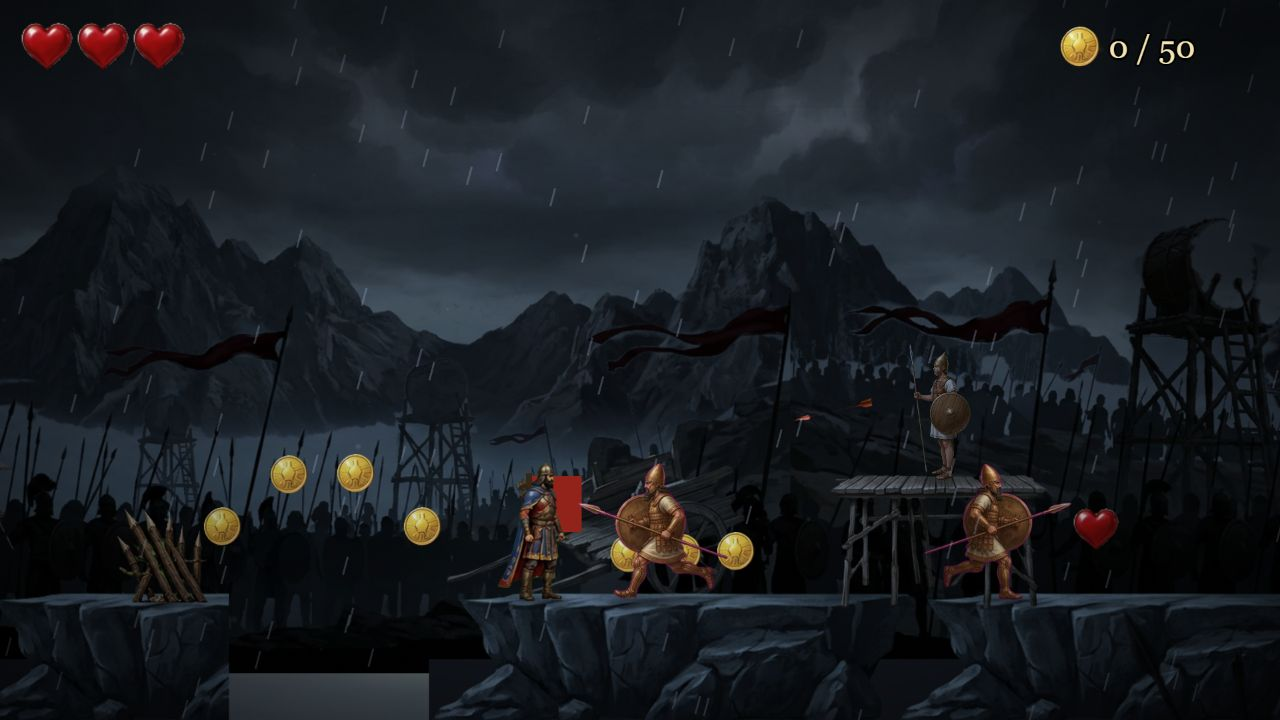
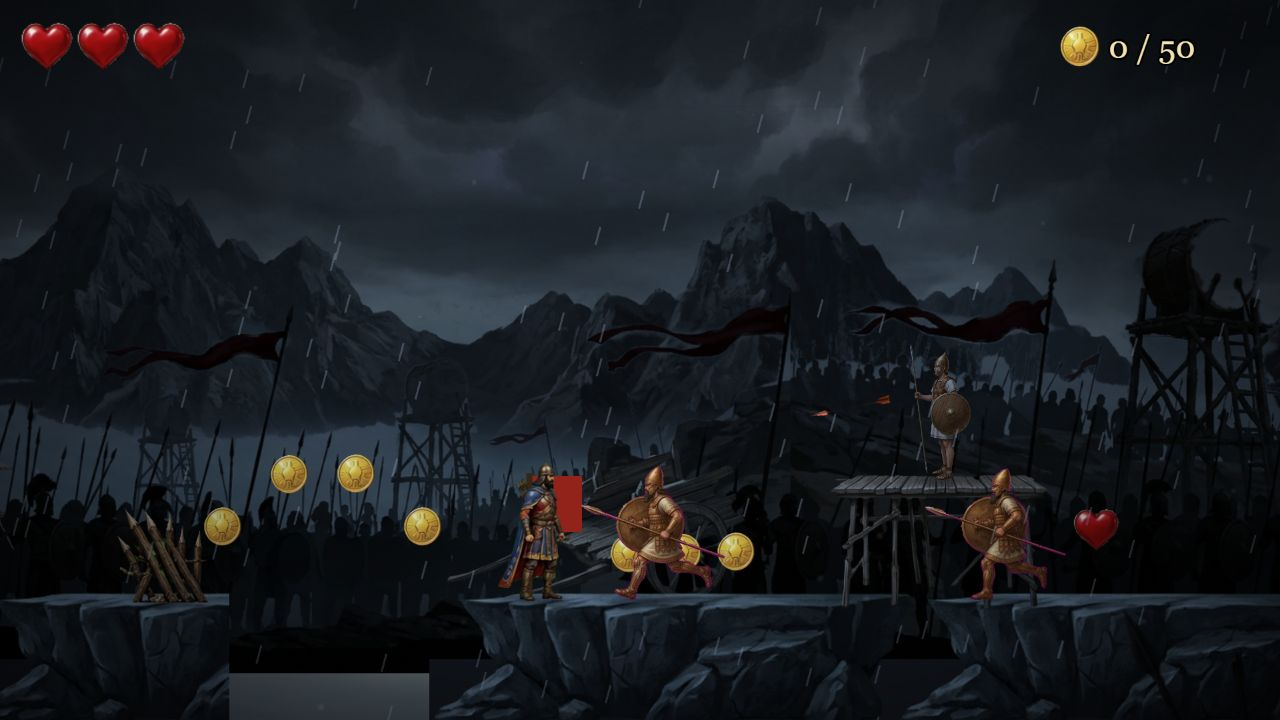
Бел из листа анимации: шаг, замах, удар; вырезание любого ровного фона и поиск фигур без сетки

Changed region(s): [[0.7188, 0.6417, 0.875, 0.8556], [0.4688, 0.6417, 0.5938, 0.7944], [0.625, 0.55, 0.6875, 0.5806]]

diff --git a/src/sprites.js b/src/sprites.js
@@ -1,102 +1,201 @@
-// Листы анимаций, нарисованные на сплошном пурпурном фоне (#FF00FF).
-// При запуске игры код сам вырезает фон, находит фигуру в каждой ячейке и выравнивает кадры
-// по линии ног и по центру тела, чтобы персонаж не «прыгал» между кадрами.
+// Листы анимаций, нарисованные на ровном одноцветном фоне (пурпурном, сиреневом — любом, не похожем на персонажа).
+// При запуске игры код сам:
+//   1) определяет цвет фона по углам картинки и делает его прозрачным;
+//   2) находит на листе отдельные фигуры (сетка не нужна — фигуры могут стоять неровно);
+//   3) выравнивает кадры по линии ног и по центру фигуры, чтобы персонаж не «прыгал» между кадрами.
 //
-// file — путь внутри public/assets; cols × rows — сетка ячеек на листе; frames — сколько кадров брать;
-// fps — скорость анимации; faces — куда смотрит персонаж на листе (1 — вправо, -1 — влево).
+// file   — путь внутри public/assets
+// rows   — сколько рядов фигур на листе (кадры нумеруются слева направо, ряд за рядом, с нуля)
+// frames — сколько фигур на листе
+// faces  — куда смотрит персонаж на листе (1 — вправо, -1 — влево)
+// tol    — насколько цвет может отличаться от фона, чтобы считаться фоном (больше — вырезает смелее)
+// anims  — анимации: имя → { frames: номера кадров, fps: скорость }
 export const SHEETS = {
-  'spearman-walk': { file: 'enemies/spearman-walk.webp', cols: 4, rows: 2, frames: 8, fps: 10, faces: 1 },
+  'spearman-walk': {
+    file: 'enemies/spearman-walk.webp', rows: 2, frames: 8, faces: 1, tol: 120,
+    anims: { 'spearman-walk': { frames: [0, 1, 2, 3, 4, 5, 6, 7], fps: 10 } },
+  },
+  'bel-sheet': {
+    file: 'enemies/bel-sheet.webp', rows: 2, frames: 6, faces: 1, tol: 34,
+    anims: { 'bel-walk': { frames: [0, 1, 4, 5], fps: 5 } },
+  },
 };
 
-// сюда записываются размеры готовых кадров: figH — рост фигуры, W/H — размер кадра, baseline — линия ног
+// сюда записываются размеры готовых кадров: figH — рост фигуры, W/H — размер кадра, baseline — линия ног, cx — центр фигуры
 export const SHEET_INFO = {};
 
 export function loadSheets(scene) {
   for (const [key, s] of Object.entries(SHEETS)) scene.load.image('raw-' + key, 'assets/' + s.file);
 }
 
-// насколько пиксель «пурпурный»: 0 — нет, 1 — чистый фон
-function magenta(r, g, b) {
-  const m = (Math.min(r, b) - g - 40) / 110;
-  return m < 0 ? 0 : m > 1 ? 1 : m;
-}
-
 export function buildSheets(scene) {
   for (const [key, s] of Object.entries(SHEETS)) {
     if (!scene.textures.exists('raw-' + key)) continue;
-    const img = scene.textures.get('raw-' + key).getSourceImage();
-    const inset = 5; // отступ от края ячейки, чтобы не захватить линии сетки
-    const cw = Math.floor(img.width / s.cols) - inset * 2;
-    const ch = Math.floor(img.height / s.rows) - inset * 2;
-    const src = document.createElement('canvas');
-    src.width = img.width;
-    src.height = img.height;
-    const sg = src.getContext('2d', { willReadFrequently: true });
-    sg.drawImage(img, 0, 0);
-
-    const cells = [];
-    for (let f = 0; f < s.frames; f++) {
-      const cx0 = (f % s.cols) * Math.floor(img.width / s.cols) + inset;
-      const cy0 = Math.floor(f / s.cols) * Math.floor(img.height / s.rows) + inset;
-      const data = sg.getImageData(cx0, cy0, cw, ch);
-      const d = data.data;
-      let x0 = cw, x1 = 0, y0 = ch, y1 = 0, sum = 0, sumX = 0;
-      for (let y = 0; y < ch; y++) {
-        for (let x = 0; x < cw; x++) {
-          const i = (y * cw + x) * 4;
-          const k = magenta(d[i], d[i + 1], d[i + 2]);
-          // тёмные линии сетки у самого края ячейки тоже убираем
-          const edgeLine = (x < 4 || x > cw - 5 || y < 4 || y > ch - 5) && d[i] + d[i + 1] + d[i + 2] < 200;
-          const a = edgeLine ? 0 : 1 - k;
-          d[i + 3] = Math.round(a * 255);
-          if (k > 0 && a > 0) {
-            // убираем пурпурный отсвет по краям фигуры
-            const spill = Math.min(d[i], d[i + 2]) - d[i + 1];
-            if (spill > 0) {
-              d[i] -= spill * k;
-              d[i + 2] -= spill * k;
-            }
-          }
-          if (a > 0.5) {
-            if (x < x0) x0 = x;
-            if (x > x1) x1 = x;
-            if (y < y0) y0 = y;
-            if (y > y1) y1 = y;
-            // центр тела считаем по нижней половине кадра не нужно — берём все непрозрачные пиксели
-            sum++;
-            sumX += x;
-          }
-        }
-      }
-      const c = document.createElement('canvas');
-      c.width = cw;
-      c.height = ch;
-      c.getContext('2d').putImageData(data, 0, 0);
-      cells.push({ c, x0, x1, y0, y1, cx: sum ? sumX / sum : cw / 2 });
-    }
+    const frames = cutFrames(scene.textures.get('raw-' + key).getSourceImage(), s);
+    scene.textures.remove('raw-' + key);
+    if (!frames.length) continue;
 
     // общий размер кадра: чтобы влезла самая широкая и самая высокая фигура
     let left = 0, right = 0, figH = 0;
-    for (const c of cells) {
-      left = Math.max(left, c.cx - c.x0);
-      right = Math.max(right, c.x1 - c.cx);
-      figH = Math.max(figH, c.y1 - c.y0 + 1);
+    for (const f of frames) {
+      left = Math.max(left, f.anchor);
+      right = Math.max(right, f.w - f.anchor);
+      figH = Math.max(figH, f.h);
     }
     const pad = 4;
     const W = Math.ceil(left + right) + pad * 2;
     const H = figH + pad * 2;
     const baseline = H - pad;
     const out = document.createElement('canvas');
-    out.width = W * cells.length;
+    out.width = W * frames.length;
     out.height = H;
     const og = out.getContext('2d');
-    cells.forEach((c, f) => {
-      og.drawImage(c.c, Math.round(f * W + pad + left - c.cx), baseline - c.y1 - 1);
-    });
+    frames.forEach((f, i) => og.drawImage(f.canvas, Math.round(i * W + pad + left - f.anchor), baseline - f.h));
 
     scene.textures.addSpriteSheet(key, out, { frameWidth: W, frameHeight: H });
-    scene.anims.create({ key, frames: scene.anims.generateFrameNumbers(key, { start: 0, end: cells.length - 1 }), frameRate: s.fps, repeat: -1 });
-    SHEET_INFO[key] = { figH, W, H, baseline, cx: pad + left, faces: s.faces };
-    scene.textures.remove('raw-' + key);
+    for (const [name, a] of Object.entries(s.anims || {})) {
+      scene.anims.create({ key: name, frames: scene.anims.generateFrameNumbers(key, { frames: a.frames.filter((n) => n < frames.length) }), frameRate: a.fps, repeat: -1 });
+    }
+    SHEET_INFO[key] = { figH, W, H, baseline, cx: pad + left, faces: s.faces, count: frames.length };
   }
+}
+
+// Вырезает фон и возвращает отдельные фигуры: [{ canvas, w, h, anchor }]
+function cutFrames(img, s) {
+  const w = img.width;
+  const h = img.height;
+  const n = w * h;
+  const src = document.createElement('canvas');
+  src.width = w;
+  src.height = h;
+  const sg = src.getContext('2d', { willReadFrequently: true });
+  sg.drawImage(img, 0, 0);
+  const d = sg.getImageData(0, 0, w, h).data;
+
+  // цвет фона — среднее по четырём углам
+  let br = 0, bg = 0, bb = 0, cnt = 0;
+  for (const [ox, oy] of [[2, 2], [w - 10, 2], [2, h - 10], [w - 10, h - 10]]) {
+    for (let y = oy; y < oy + 8; y++) {
+      for (let x = ox; x < ox + 8; x++) {
+        const i = (y * w + x) * 4;
+        br += d[i]; bg += d[i + 1]; bb += d[i + 2]; cnt++;
+      }
+    }
+  }
+  br /= cnt; bg /= cnt; bb /= cnt;
+
+  // расстояние каждого пикселя до цвета фона
+  const T = s.tol ?? 40;
+  const T2 = T * 1.45;
+  const dist = new Float32Array(n);
+  const isBg = new Uint8Array(n);
+  for (let p = 0; p < n; p++) {
+    const i = p * 4;
+    const dr = d[i] - br, dg = d[i + 1] - bg, db = d[i + 2] - bb;
+    const v = Math.sqrt(dr * dr + dg * dg + db * db);
+    dist[p] = v;
+    if (v < T) isBg[p] = 1;
+  }
+  // от краёв картинки фон «заливается» смелее: так убираются полутона на границе фигур,
+  // но похожие на фон места внутри фигуры (например, блик на мече) остаются
+  const stack = [];
+  for (let x = 0; x < w; x++) stack.push(x, (h - 1) * w + x);
+  for (let y = 0; y < h; y++) stack.push(y * w, y * w + w - 1);
+  const seen = new Uint8Array(n);
+  while (stack.length) {
+    const p = stack.pop();
+    if (seen[p] || dist[p] >= T2) continue;
+    seen[p] = 1;
+    isBg[p] = 1;
+    const x = p % w;
+    if (x > 0) stack.push(p - 1);
+    if (x < w - 1) stack.push(p + 1);
+    if (p >= w) stack.push(p - w);
+    if (p < n - w) stack.push(p + w);
+  }
+
+  // ищем связные «пятна» не-фона — это фигуры и мелкие детали
+  const label = new Int32Array(n);
+  const comps = [null];
+  for (let p0 = 0; p0 < n; p0++) {
+    if (isBg[p0] || label[p0]) continue;
+    const id = comps.length;
+    const c = { id, area: 0, x0: w, x1: 0, y0: h, y1: 0 };
+    stack.push(p0);
+    label[p0] = id;
+    while (stack.length) {
+      const p = stack.pop();
+      const x = p % w;
+      const y = (p - x) / w;
+      c.area++;
+      if (x < c.x0) c.x0 = x;
+      if (x > c.x1) c.x1 = x;
+      if (y < c.y0) c.y0 = y;
+      if (y > c.y1) c.y1 = y;
+      if (x > 0 && !isBg[p - 1] && !label[p - 1]) { label[p - 1] = id; stack.push(p - 1); }
+      if (x < w - 1 && !isBg[p + 1] && !label[p + 1]) { label[p + 1] = id; stack.push(p + 1); }
+      if (y > 0 && !isBg[p - w] && !label[p - w]) { label[p - w] = id; stack.push(p - w); }
+      if (y < h - 1 && !isBg[p + w] && !label[p + w]) { label[p + w] = id; stack.push(p + w); }
+    }
+    comps.push(c);
+  }
+
+  // линии сетки (тонкие и через весь лист) и мусор отбрасываем; крупные пятна — фигуры
+  const real = comps.filter((c) => c && c.area >= 12 && c.x1 - c.x0 < w * 0.6 && c.y1 - c.y0 < h * 0.75);
+  const maxArea = real.reduce((m, c) => Math.max(m, c.area), 0);
+  const rowOf = (c) => Math.min(s.rows - 1, Math.floor(((c.y0 + c.y1) / 2 / h) * s.rows));
+  const figs = real.filter((c) => c.area >= maxArea * 0.25)
+    .sort((a, b) => rowOf(a) - rowOf(b) || a.x0 + a.x1 - b.x0 - b.x1)
+    .slice(0, s.frames);
+  const owner = new Int32Array(comps.length).fill(-1);
+  figs.forEach((c, i) => { owner[c.id] = i; });
+  // мелкие детали рядом с фигурой (отлетевший кончик меча, брызги) приписываем ближайшей фигуре
+  for (const c of real) {
+    if (owner[c.id] >= 0) continue;
+    let best = -1, bestGap = 26;
+    figs.forEach((f, i) => {
+      const gx = Math.max(0, f.x0 - c.x1, c.x0 - f.x1);
+      const gy = Math.max(0, f.y0 - c.y1, c.y0 - f.y1);
+      if (Math.max(gx, gy) < bestGap) { bestGap = Math.max(gx, gy); best = i; }
+    });
+    if (best >= 0) {
+      owner[c.id] = best;
+      const f = figs[best];
+      f.x0 = Math.min(f.x0, c.x0); f.x1 = Math.max(f.x1, c.x1); f.y0 = Math.min(f.y0, c.y0); f.y1 = Math.max(f.y1, c.y1);
+    }
+  }
+
+  // переносим каждую фигуру на свой холст
+  return figs.map((f, fi) => {
+    const fw = f.x1 - f.x0 + 1;
+    const fh = f.y1 - f.y0 + 1;
+    const canvas = document.createElement('canvas');
+    canvas.width = fw;
+    canvas.height = fh;
+    const g = canvas.getContext('2d');
+    const out = g.createImageData(fw, fh);
+    const o = out.data;
+    let feetSum = 0, feetN = 0;
+    const feetY = f.y0; // центр считаем по всей фигуре — так кадры бега дрожат меньше всего
+    for (let y = f.y0; y <= f.y1; y++) {
+      for (let x = f.x0; x <= f.x1; x++) {
+        const p = y * w + x;
+        if (owner[label[p]] !== fi) continue;
+        const i = p * 4;
+        const j = ((y - f.y0) * fw + (x - f.x0)) * 4;
+        let a = 1;
+        // пиксель на самой границе с фоном делаем полупрозрачным и убираем с него цвет фона
+        const edge = (x > 0 && isBg[p - 1]) || (x < w - 1 && isBg[p + 1]) || (y > 0 && isBg[p - w]) || (y < h - 1 && isBg[p + w]);
+        if (edge) a = Math.min(1, Math.max(0.3, (dist[p] - T) / (T * 0.8) + 0.3));
+        const k = (1 - a) * 0.7;
+        o[j] = Math.max(0, Math.min(255, d[i] + (d[i] - br) * k));
+        o[j + 1] = Math.max(0, Math.min(255, d[i + 1] + (d[i + 1] - bg) * k));
+        o[j + 2] = Math.max(0, Math.min(255, d[i + 2] + (d[i + 2] - bb) * k));
+        o[j + 3] = Math.round(a * 255);
+        if (y >= feetY) { feetSum += x - f.x0; feetN++; }
+      }
+    }
+    g.putImageData(out, 0, 0);
+    return { canvas, w: fw, h: fh, anchor: feetN ? feetSum / feetN : fw / 2 };
+  });
 }

diff --git a/src/entities/Boss.js b/src/entities/Boss.js
@@ -1,19 +1,34 @@
 import Phaser from 'phaser';
 import { BOSS } from '../config.js';
 import Enemy from './Enemy.js';
+import { SHEET_INFO } from '../sprites.js';
+
+// номера кадров на листе bel-sheet
+const FRAME = { stand: 5, windup: 2, strike: 3 };
 
 // Бел. Обычные стрелы отскакивают от щита, ранят только заряженные выстрелы.
 // Атаки: рывок с мечом и удар по земле с волной. На половине здоровья зовёт двух копейщиков.
 export default class Boss extends Phaser.Physics.Arcade.Sprite {
   constructor(scene, d) {
-    super(scene, d.x, d.y, 'bel');
+    // если есть лист анимации — берём его, иначе одну картинку bel.png
+    const info = SHEET_INFO['bel-sheet'] || null;
+    super(scene, d.x, d.y, info ? 'bel-sheet' : 'bel', info ? FRAME.stand : undefined);
     scene.add.existing(this);
     scene.physics.add.existing(this);
-    this.baseScale = BOSS.height / this.height;
-    this.setOrigin(0.5, 1).setScale(this.baseScale).setDepth(46);
-    const w = this.width * 0.36;
-    const h = this.height * 0.84;
-    this.body.setSize(w, h).setOffset((this.width - w) / 2, this.height - h);
+    this.info = info;
+    if (info) {
+      this.baseScale = BOSS.height / info.figH;
+      this.setOrigin(info.cx / info.W, info.baseline / info.H).setScale(this.baseScale).setDepth(46);
+      const w = info.figH * 0.32;
+      const h = info.figH * 0.86;
+      this.body.setSize(w, h).setOffset(info.cx - w / 2, info.baseline - h);
+    } else {
+      this.baseScale = BOSS.height / this.height;
+      this.setOrigin(0.5, 1).setScale(this.baseScale).setDepth(46);
+      const w = this.width * 0.36;
+      const h = this.height * 0.84;
+      this.body.setSize(w, h).setOffset((this.width - w) / 2, this.height - h);
+    }
     this.d = d;
     this.arena = [d.arenaX + 130, d.arenaX + d.arenaW - 130];
     this.hp = this.maxHp = BOSS.hp;
@@ -45,7 +60,15 @@ export default class Boss extends Phaser.Physics.Arcade.Sprite {
 
   face(dir) {
     this.dir = dir;
-    this.setFlipX(dir > 0); // исходная картинка смотрит влево
+    // bel.png смотрит влево, лист анимации — вправо
+    this.setFlipX(this.info ? dir < 0 : dir > 0);
+    const I = this.info;
+    if (I) {
+      // картинка отражается относительно середины кадра — переносим точку опоры и хитбокс на центр фигуры
+      const cx = dir < 0 ? I.W - I.cx : I.cx;
+      this.setOrigin(cx / I.W, I.baseline / I.H);
+      this.body.setOffset(cx - this.body.width / 2 / this.scaleX, I.baseline - this.body.height / this.scaleY);
+    }
   }
 
   wake(time) {
@@ -121,8 +144,23 @@ export default class Boss extends Phaser.Physics.Arcade.Sprite {
         break;
     }
 
+    if (this.info) {
+      // кадры: замах перед атакой, удар в рывке, шаг при ходьбе, стойка
+      const st = this.state;
+      if (st === 'dashWind' || st === 'slamWind') {
+        this.anims.stop();
+        this.setFrame(FRAME.windup);
+      } else if (st === 'dash') {
+        this.anims.stop();
+        this.setFrame(FRAME.strike);
+      } else if (Math.abs(this.body.velocity.x) > 10) this.anims.play('bel-walk', true);
+      else {
+        this.anims.stop();
+        this.setFrame(FRAME.stand);
+      }
+    }
     this.lean += (lean - this.lean) * 0.2;
-    const bob = Math.abs(this.body.velocity.x) > 10 ? Math.sin(time * 0.012) * 2 : Math.sin(time * 0.003) * 0.6;
+    const bob = this.info ? 0 : Math.abs(this.body.velocity.x) > 10 ? Math.sin(time * 0.012) * 2 : Math.sin(time * 0.003) * 0.6;
     this.setAngle((this.lean + bob) * this.dir);
     this.stretch += (stretch - this.stretch) * 0.15;
     this.setScale(this.baseScale, this.baseScale * this.stretch);
@@ -256,6 +294,10 @@ export default class Boss extends Phaser.Physics.Arcade.Sprite {
     this.dead = true;
     this.body.enable = false;
     this.setAlpha(1).setScale(this.baseScale);
+    if (this.info) {
+      this.anims.stop();
+      this.setFrame(FRAME.stand);
+    }
     const ws = this.waves.getChildren();
     for (let i = 0; i < ws.length; i++) ws[i].disableBody(true, true);
     scene.onBossDefeated();

diff --git a/src/entities/Enemy.js b/src/entities/Enemy.js
@@ -50,7 +50,9 @@ export default class Enemy extends Phaser.Physics.Arcade.Sprite {
     const G = this.geom;
     const flipped = dir !== G.faces;
     this.setFlipX(flipped);
-    const cx = flipped && !this.info ? this.width - G.cx : G.cx;
+    // картинка отражается относительно середины кадра, поэтому центр фигуры при отражении переезжает
+    const cx = flipped ? this.width - G.cx : G.cx;
+    if (this.info) this.setOrigin(cx / this.width, G.bottom / this.height);
     this.body.setSize(G.w, G.h);
     this.body.setOffset(cx - G.w / 2, G.bottom - G.h);
   }

diff --git a/CLAUDE.md b/CLAUDE.md
@@ -132,6 +132,7 @@
 - `public/assets/hayots-dzor/hayots-front.png` (1376×768) — передний план уровня 4: валуны, щиты, сломанные копья рамкой
 - `public/assets/hayots-dzor/platforms/platform-01…12.png` — платформы уровня 4: скальные уступы, плиты, два деревянных помоста; сломанная повозка среди них — декорация, не платформа
 - `public/assets/enemies/spearman.png` (423×936) — копейщик Бела, смотрит влево. В игре высота около 205 px
-- `public/assets/enemies/spearman-walk.webp` (1024×572) — лист бега копейщика: 8 кадров сеткой 4×2 на пурпурном фоне, смотрит вправо. Фон вырезается и кадры выравниваются кодом при запуске (`src/sprites.js`); новые листы добавлять туда же, в `SHEETS`. Копейщик в игре берётся из этого листа, лучник пока остаётся на старой картинке `spearman.png`
+- `public/assets/enemies/spearman-walk.webp` (1024×572) — лист бега копейщика: 8 кадров сеткой 4×2 на пурпурном фоне, смотрит вправо. Фон вырезается, фигуры находятся и выравниваются кодом при запуске (`src/sprites.js`; подходит любой ровный одноцветный фон, сетка не нужна); новые листы добавлять туда же, в `SHEETS`. Копейщик в игре берётся из этого листа, лучник пока остаётся на старой картинке `spearman.png`
+- `public/assets/enemies/bel-sheet.webp` (1024×1024) — лист Бела: 6 фигур в 2 ряда на сиреневом фоне, смотрит вправо. Кадры 0, 1, 4, 5 — шаг, 2 — замах, 3 — удар мечом. Бел в игре берётся из этого листа (`bel.png` остаётся запасным). Кадров удара по земле и падения пока нет
 - `public/assets/enemies/bel.png` (801×947) — Бел, смотрит влево. В игре высота около 300 px (заметно крупнее Айка)
 Чего ещё нет — см. `docs/missing-assets.md`
